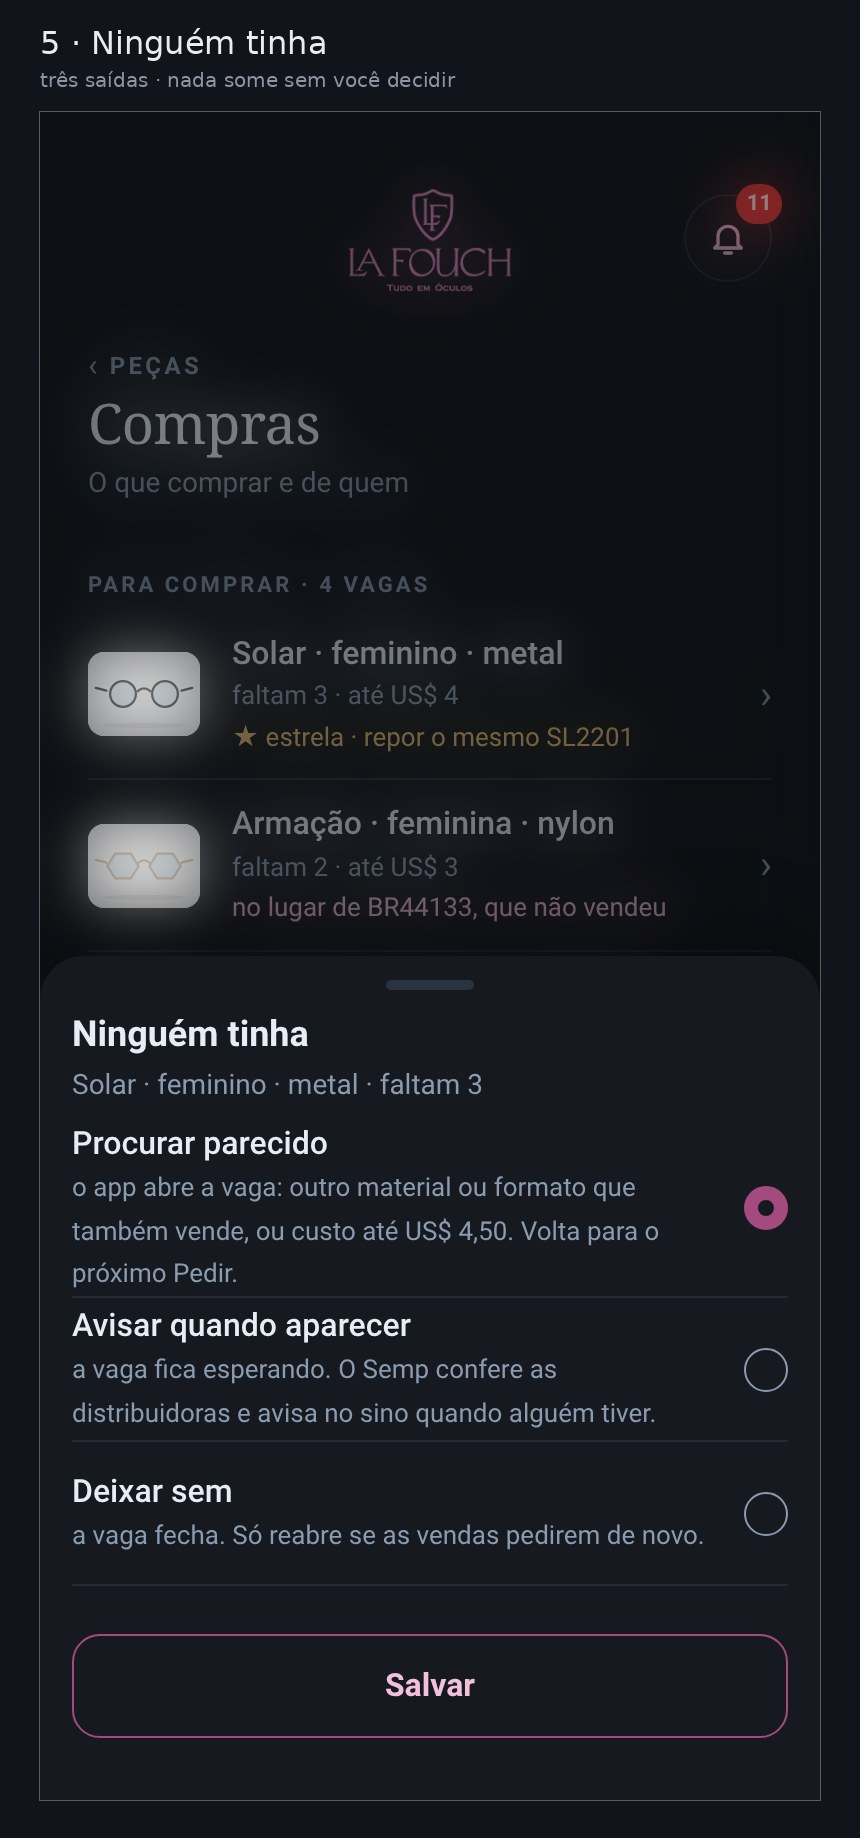
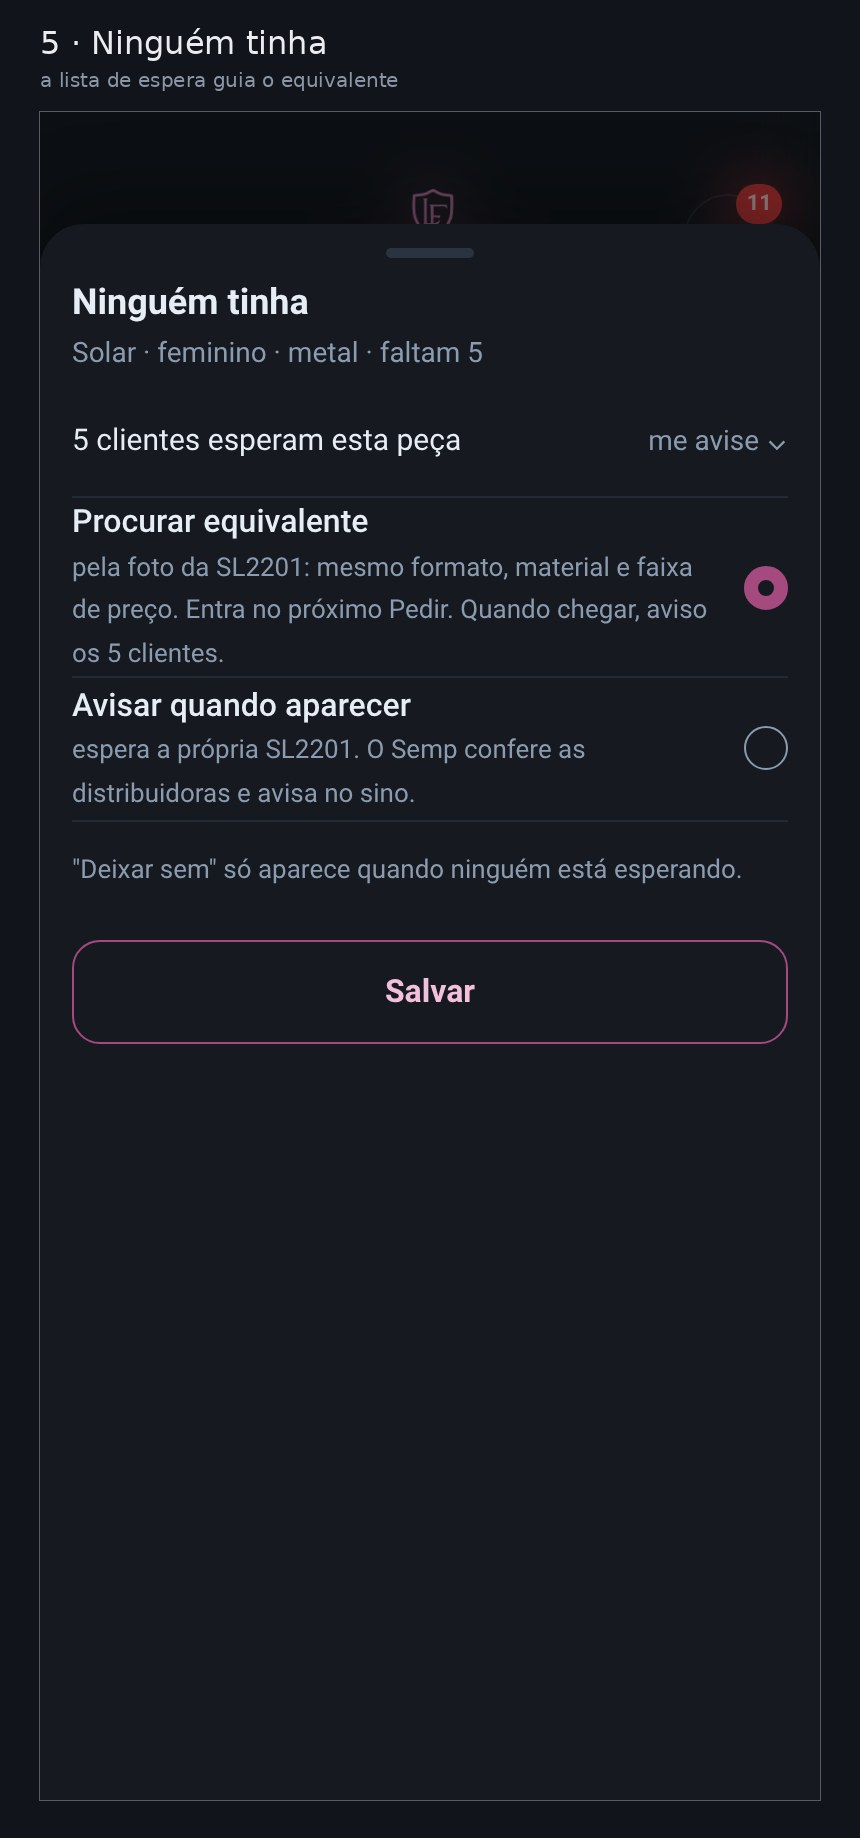
Compras parte A: dados (vendas do app primeiro) e lista de espera guia o equivalente
Claude-Session: https://claude.ai/code/session_01Vj5GPRt4UBskC3w8v52h7G

diff --git a/work/s435/compras/esboco_51.py b/work/s435/compras/esboco_51.py
@@ -28,10 +28,11 @@ def frame(pw,qual):
      '<div style="background:var(--panel2);border-radius:12px;padding:12px 14px;font-size:14px;line-height:1.55;color:var(--fg)">Hola, ¿qué tienen de esto?<br>· 3 lentes de sol de mujer, metal (SL2201 o parecido), hasta US$ 4<br>· 2 armazones de mujer, nylon, hasta US$ 3<br>· 5 armazones unisex, acetato, hasta US$ 3,50<br>Gracias. La Fouch</div>'+
      '<div style="color:var(--mute);font-size:14px;line-height:1.45;margin:16px 0 0">Você escolhe para quem mandar no próprio WhatsApp: uma distribuidora ou várias. As vagas ficam "pedida · esperando resposta".</div>','Mandar')}""",I);w(500)
   if qual=='ninguem': pg.evaluate("(I)=>{"+H+J+r"""const OP=(t,s,on)=>'<div style="display:flex;align-items:center;gap:16px;min-height:72px;border-bottom:1px solid var(--line2)"><span style="flex:1;min-width:0"><b style="display:block;font-size:16px;font-weight:500">'+t+'</b><small style="font-size:13px;color:var(--mute);line-height:1.4">'+s+'</small></span><span style="width:22px;height:22px;border-radius:50%;flex:none;'+(on?'border:7px solid var(--accent)':'border:1.5px solid var(--mute)')+'"></span></div>';
-     JAN('Ninguém tinha','Solar · feminino · metal · faltam 3',
-     OP('Procurar parecido','o app abre a vaga: outro material ou formato que também vende, ou custo até US$ 4,50. Volta para o próximo Pedir.',1)+
-     OP('Avisar quando aparecer','a vaga fica esperando. O Semp confere as distribuidoras e avisa no sino quando alguém tiver.',0)+
-     OP('Deixar sem','a vaga fecha. Só reabre se as vendas pedirem de novo.',0),'Salvar')}""",I);w(500)
+     JAN('Ninguém tinha','Solar · feminino · metal · faltam 5',
+     '<div style="display:flex;align-items:center;gap:12px;min-height:56px;border-bottom:1px solid var(--line2)"><span style="flex:1;font-size:15px">5 clientes esperam esta peça</span><span style="color:var(--mute);font-size:14px">me avise ⌄</span></div>'+
+     OP('Procurar equivalente','pela foto da SL2201: mesmo formato, material e faixa de preço. Entra no próximo Pedir. Quando chegar, aviso os 5 clientes.',1)+
+     OP('Avisar quando aparecer','espera a própria SL2201. O Semp confere as distribuidoras e avisa no sino.',0)+
+     '<div style="color:var(--mute);font-size:13px;line-height:1.45;margin:16px 0 0">"Deixar sem" só aparece quando ninguém está esperando.</div>','Salvar')}""",I);w(500)
   if qual=='fechei': pg.evaluate("(I)=>{"+H+J+r"""const QT='<span style="display:inline-flex;align-items:center;gap:16px"><b style="color:var(--mute);font-size:20px">−</b><b style="font-size:16px">3</b><b style="font-size:20px">+</b></span>';
      JAN('Fechei com…','Solar · feminino · metal · faltam 3',LIN('Distribuidora','Kazwini','›')+LIN('Modelo','SL2201 · o mesmo','›')+'<div style="display:flex;align-items:center;min-height:52px;border-bottom:1px solid var(--line2)"><span style="flex:1;font-size:16px">Peças</span>'+QT+'</div>'+LIN('Custo por peça','US$ 3,80')+
      '<div style="color:'+OK+';font-size:14px;margin:16px 0 0">Guardião: margem boa a G$ 60.000 · pode fechar</div>','Salvar')}""",I);w(500)
@@ -48,4 +49,4 @@ if __name__=='__main__' and not os.environ.get('SO_B'):
 
 if __name__=='__main__' and os.environ.get('SO_B'):
  with sync_playwright() as pw:
-  quadro('esboco_51b_ninguem_tinha.jpg',[('5 · Ninguém tinha','três saídas · nada some sem você decidir',frame(pw,'ninguem'))])
+  quadro('esboco_51b_ninguem_tinha.jpg',[('5 · Ninguém tinha','a lista de espera guia o equivalente',frame(pw,'ninguem'))])

diff --git a/docs/MEMORIA-PROJETO.md b/docs/MEMORIA-PROJETO.md
@@ -3457,3 +3457,4 @@ Testar TUDO, com muita calma, antes de dizer que está pronto ou de publicar: ca
 - 21/11 13:15 · DONO: 'Exato, muito melhor' para os ajustes do 51: (1) o fracasso não fica 'Não repor' — vira vaga com ALTERNATIVAS para comprar já (mesmo tipo e gênero, material/formato que está vendendo); (2) NÃO escolher distribuidora antes do pedido: 'Pedir' monta UMA mensagem em espanhol com todas as vagas sem fechar e abre o compartilhar; ele escolhe no WhatsApp para quem manda; a distribuidora só entra no 'Fechei com…'. Esboço 51 refeito (lista · vaga no lugar de um fracasso · Pedir · Fechei com…). Esperando o dono.
 - 21/11 13:22 · DONO: 51 'muito bom', falta melhorar o 'Ninguém tinha'. 51b enviado: janela com 3 saídas (Procurar parecido = abre a vaga para outro material/formato que vende ou custo um pouco maior · Avisar quando aparecer = o Semp confere as distribuidoras e avisa no sino · Deixar sem = fecha até as vendas pedirem de novo) + Salvar. Esperando o dono.
 - 21/11/2026 — ✅ PUBLICADO app v600 (5.50.25) · 134 (2b): 'Vender no Catálogo ›' e 'Fotografar no Estúdio ›' nascem no fim da ficha do Inventário (fichaLinks), centralizados, nas 4 abas. 353/353 no simulador; nada em aparelho real. Falta do 134: linhas .pl.pick, ficha sem o cartão grande e sem caixas, 134b Fornecedores, 134d Editar na janela de baixo.
+- 21/11 13:25 · DONO: dados da compra = vendas do PRÓPRIO APP (o que funciona agora, peso maior) + Analisador do site (modelos visitados/saindo) + lista de espera ('me avise quando chegar', poderosa para achar equivalente quando a peça não volta) + tendências da internet só como complemento. Estrela que vende muito bem NÃO é trocada, a menos que acabe e não dê mais para repor. 51b refeito: 'Ninguém tinha' mostra 'N clientes esperam esta peça'; Procurar equivalente (pela foto da original; quando chegar, avisa os clientes) · Avisar quando aparecer; 'Deixar sem' só sem ninguém esperando. Parte A atualizada (seções 5 e 6).

diff --git a/docs/FALTA-APROVAR-15-11.md b/docs/FALTA-APROVAR-15-11.md
@@ -948,3 +948,4 @@ Não são esquecimento (estavam na lista, parados de propósito ou por ordem do 
 - 21/11 13:15 · DONO: 'Exato, muito melhor' para os ajustes do 51: (1) o fracasso não fica 'Não repor' — vira vaga com ALTERNATIVAS para comprar já (mesmo tipo e gênero, material/formato que está vendendo); (2) NÃO escolher distribuidora antes do pedido: 'Pedir' monta UMA mensagem em espanhol com todas as vagas sem fechar e abre o compartilhar; ele escolhe no WhatsApp para quem manda; a distribuidora só entra no 'Fechei com…'. Esboço 51 refeito (lista · vaga no lugar de um fracasso · Pedir · Fechei com…). Esperando o dono.
 - 21/11 13:22 · DONO: 51 'muito bom', falta melhorar o 'Ninguém tinha'. 51b enviado: janela com 3 saídas (Procurar parecido = abre a vaga para outro material/formato que vende ou custo um pouco maior · Avisar quando aparecer = o Semp confere as distribuidoras e avisa no sino · Deixar sem = fecha até as vendas pedirem de novo) + Salvar. Esperando o dono.
 - 21/11/2026 — ✅ PUBLICADO app v600 (5.50.25) · 134 (2b): 'Vender no Catálogo ›' e 'Fotografar no Estúdio ›' nascem no fim da ficha do Inventário (fichaLinks), centralizados, nas 4 abas. 353/353 no simulador; nada em aparelho real. Falta do 134: linhas .pl.pick, ficha sem o cartão grande e sem caixas, 134b Fornecedores, 134d Editar na janela de baixo.
+- 21/11 13:25 · DONO: dados da compra = vendas do PRÓPRIO APP (o que funciona agora, peso maior) + Analisador do site (modelos visitados/saindo) + lista de espera ('me avise quando chegar', poderosa para achar equivalente quando a peça não volta) + tendências da internet só como complemento. Estrela que vende muito bem NÃO é trocada, a menos que acabe e não dê mais para repor. 51b refeito: 'Ninguém tinha' mostra 'N clientes esperam esta peça'; Procurar equivalente (pela foto da original; quando chegar, avisa os clientes) · Avisar quando aparecer; 'Deixar sem' só sem ninguém esperando. Parte A atualizada (seções 5 e 6).

diff --git a/work/s435/compras/PARTE-A-LOGICA-DA-COMPRA.md b/work/s435/compras/PARTE-A-LOGICA-DA-COMPRA.md
@@ -40,3 +40,20 @@ Proposta para começar a conversa:
 - **Sozinha, todo dia:** as vendas abrem vagas, e o que chega pelo "Chegou mercadoria" fecha vagas.
 - **Por você, com um toque:** "Fechei com…" (a compra combinada) e "Ninguém tinha" (a vaga sai da lista por um tempo, ou muda a faixa de custo).
 - **Pelo Semp, depois:** troca o modelo sugerido quando aparece um melhor numa distribuidora.
+
+## 5. De onde vêm os dados (dono 21/11 13:22–13:25)
+
+Por ordem de peso:
+1. **Vendas do próprio app.** É o que funciona agora. Vem em primeiro lugar.
+2. **Analisador do site.** Mostra os modelos visitados, os favoritos, as buscas e o que está saindo.
+3. **"Me avise quando chegar" (lista de espera).** São clientes que querem comprar e já disseram o quê.
+4. **Tendências da internet.** Só completam os outros dados; sozinhas não bastam.
+
+**Regra da estrela:** o que vende muito bem **nunca é trocado**. Só procura um equivalente quando acaba e não dá mais para repor.
+
+## 6. Quando ninguém tem: a lista de espera guia o equivalente
+
+- Cada cliente na espera fica ligado à **foto** e aos traços da peça que pediu: tipo, gênero, material e o formato tirado da foto. Com 5 clientes esperando, a vaga precisa de pelo menos 5 peças.
+- Se a peça não volta mais, a vaga passa para **"procurar equivalente"**. O Semp compara com a foto da original e usa as vendas e o Analisador. O Guardião confere o preço.
+- Quando o equivalente chega, o "Chegou mercadoria" mostra **"5 clientes esperavam algo assim"** e traz a mensagem pronta no WhatsApp: "Chegou um parecido com o que você queria", com a foto.
+- **"Deixar sem"** só aparece quando ninguém está esperando. A vaga reabre no primeiro "me avise".
